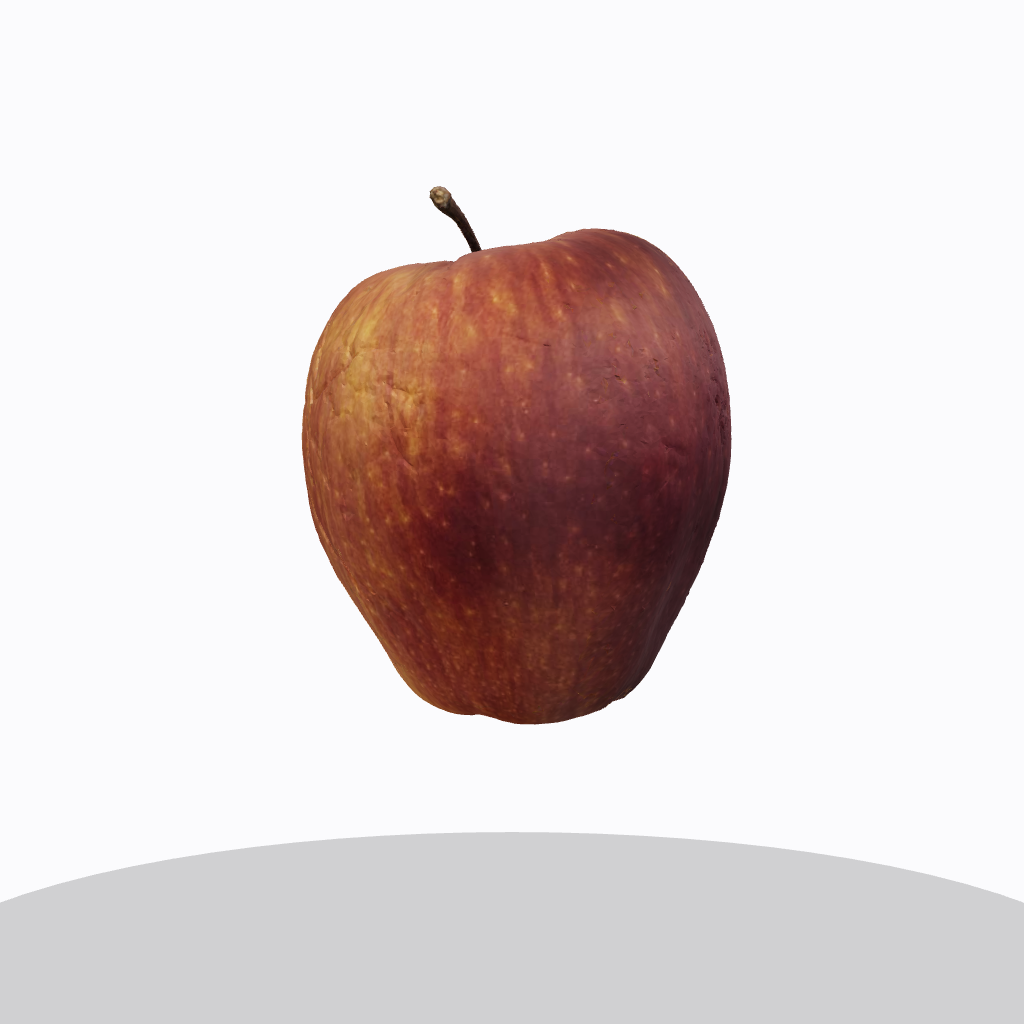
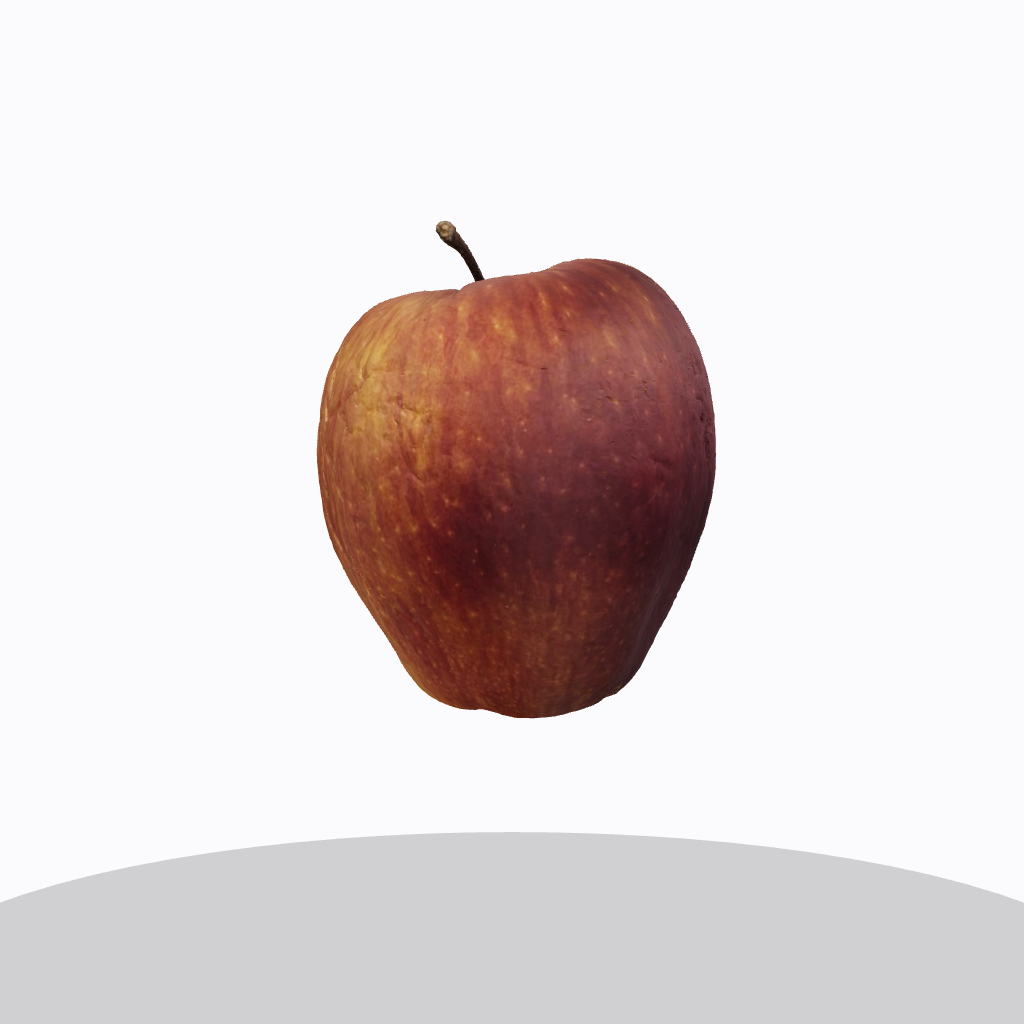
Normalize each apple frame to a shared max extent and floor.
Sketchfab stages ship with different node scales; reusing frame-0's fit
factor made later bites jump ~20–40% in world size. Scale every GLB so its
longest AABB side matches TARGET_MAX_EXTENT and pin bottoms to one floor.

diff --git a/src/components/AppleScene.tsx b/src/components/AppleScene.tsx
@@ -2,13 +2,12 @@
 
 import { Canvas, useFrame, useThree } from "@react-three/fiber";
 import {
-  Center,
   ContactShadows,
   Environment,
   OrbitControls,
   useGLTF,
 } from "@react-three/drei";
-import { Suspense, useCallback, useEffect, useMemo, useRef, useState } from "react";
+import { Suspense, useEffect, useMemo, useRef, useState } from "react";
 import * as THREE from "three";
 import { copy } from "@/lib/copy";
 import { FRAME_COUNT } from "@/lib/race";
@@ -24,8 +23,15 @@ type AppleSceneProps = {
 
 const FRAME_URL = (n: number) => `/apple/frames/${n}.glb`;
 
-/** Shared visual radius so every stop-motion stage matches frame 0 framing. */
-const TARGET_RADIUS = 0.92;
+/**
+ * Sketchfab bite stages ship with different node scales/pivots. We normalize
+ * each frame independently:
+ *  1) uniform scale so the longest AABB side == TARGET_MAX_EXTENT
+ *  2) XZ-center + shared floor (min Y → -TARGET_MAX_EXTENT/2)
+ * Reusing frame-0's fit factor alone left later stages ~20–40% wrong in world space.
+ * AABB-sphere fit kept radius equal but let tall cores (8–9) read much larger.
+ */
+const TARGET_MAX_EXTENT = 1.16;
 
 /**
  * Eydeet frames ship with the bite cavity facing away from the default camera.
@@ -77,11 +83,38 @@ function useHasGltfFrames() {
   return available;
 }
 
-function measureSphereRadius(root: THREE.Object3D): number {
+/** World AABB for a loaded (or cloned) GLTF root. */
+function measureWorldBox(root: THREE.Object3D): THREE.Box3 {
   root.updateWorldMatrix(true, true);
-  const box = new THREE.Box3().setFromObject(root);
-  const sphere = box.getBoundingSphere(new THREE.Sphere());
-  return Math.max(sphere.radius, 1e-6);
+  return new THREE.Box3().setFromObject(root);
+}
+
+/**
+ * Uniform scale + stable pose: longest AABB side → TARGET_MAX_EXTENT,
+ * XZ centered, bottom on a shared floor so shadows don't bounce.
+ */
+function normalizeAppleRoot(source: THREE.Object3D): THREE.Group {
+  const box0 = measureWorldBox(source);
+  const size = box0.getSize(new THREE.Vector3());
+  const maxExtent = Math.max(size.x, size.y, size.z, 1e-6);
+  const fitScale = TARGET_MAX_EXTENT / maxExtent;
+
+  const wrap = new THREE.Group();
+  const scaled = new THREE.Group();
+  scaled.scale.setScalar(fitScale);
+  scaled.add(source);
+  wrap.add(scaled);
+
+  wrap.updateWorldMatrix(true, true);
+  const box = measureWorldBox(wrap);
+  const cx = (box.min.x + box.max.x) * 0.5;
+  const cz = (box.min.z + box.max.z) * 0.5;
+  wrap.position.set(
+    -cx,
+    -TARGET_MAX_EXTENT * 0.5 - box.min.y,
+    -cz,
+  );
+  return wrap;
 }
 
 function appleColor(rot: boolean, quietPreview?: boolean) {
@@ -440,34 +473,19 @@ function applyRotTint(
   });
 }
 
-/** Load frame 0 once and publish a shared fit scale for all stages. */
-function FrameScaleBootstrap({
-  onScale,
-}: {
-  onScale: (scale: number) => void;
-}) {
-  const { scene } = useGLTF(FRAME_URL(0), true, true);
-  useEffect(() => {
-    const radius = measureSphereRadius(scene);
-    onScale(TARGET_RADIUS / radius);
-  }, [scene, onScale]);
-  return null;
-}
-
 function GltfFrame({
   frame,
   rot,
   quietPreview,
-  fitScale,
 }: {
   frame: number;
   rot: boolean;
   quietPreview?: boolean;
-  fitScale: number;
 }) {
   const path = FRAME_URL(frame);
   const { scene } = useGLTF(path, true, true);
   const cloned = useMemo(() => scene.clone(true), [scene]);
+  const normalized = useMemo(() => normalizeAppleRoot(cloned), [cloned]);
 
   useEffect(() => {
     applyRotTint(cloned, rot, quietPreview);
@@ -478,11 +496,7 @@ function GltfFrame({
       position={[0, 0.22, 0]}
       rotation={[APPLE_FACE_PITCH, APPLE_FACE_YAW, 0]}
     >
-      <Center cacheKey={`frame-${frame}-s${fitScale.toFixed(4)}`}>
-        <group scale={fitScale}>
-          <primitive object={cloned} />
-        </group>
-      </Center>
+      <primitive object={normalized} />
     </group>
   );
 }
@@ -558,8 +572,7 @@ function SceneContent({
   juicePulse,
   enableOrbit = false,
   useGltf,
-  fitScale,
-}: AppleSceneProps & { useGltf: boolean; fitScale: number | null }) {
+}: AppleSceneProps & { useGltf: boolean }) {
   return (
     <>
       <ambientLight intensity={0.95} />
@@ -569,14 +582,11 @@ function SceneContent({
       <Suspense fallback={null}>
         <Environment preset="studio" environmentIntensity={0.4} />
         {useGltf ? (
-          fitScale != null ? (
-            <GltfFrame
-              frame={frame}
-              rot={rot}
-              quietPreview={quietPreview}
-              fitScale={fitScale}
-            />
-          ) : null
+          <GltfFrame
+            frame={frame}
+            rot={rot}
+            quietPreview={quietPreview}
+          />
         ) : (
           <ProceduralApple
             frame={frame}
@@ -634,10 +644,6 @@ export function AppleScene({
 }: AppleSceneProps) {
   const hasGltf = useHasGltfFrames();
   const safeFrame = Math.min(FRAME_COUNT - 1, Math.max(0, Math.floor(frame)));
-  const [fitScale, setFitScale] = useState<number | null>(null);
-  const onScale = useCallback((scale: number) => {
-    setFitScale(scale);
-  }, []);
 
   useEffect(() => {
     if (!hasGltf) return;
@@ -670,11 +676,6 @@ export function AppleScene({
         }}
       >
         <ResponsiveCamera />
-        {useGltf && (
-          <Suspense fallback={null}>
-            <FrameScaleBootstrap onScale={onScale} />
-          </Suspense>
-        )}
         <SceneContent
           frame={safeFrame}
           rot={rot}
@@ -682,7 +683,6 @@ export function AppleScene({
           juicePulse={juicePulse}
           enableOrbit={enableOrbit}
           useGltf={useGltf}
-          fitScale={fitScale}
         />
       </Canvas>
       {hasGltf === false && (
